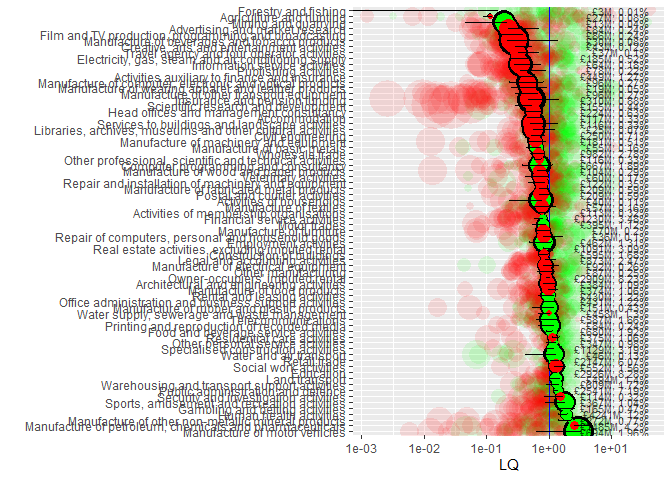
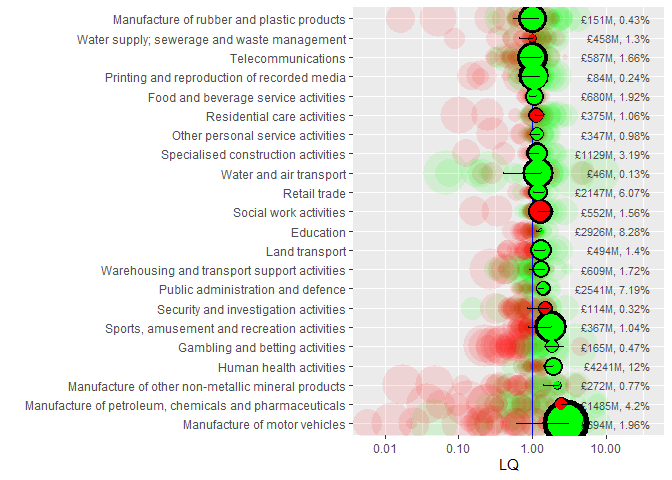
LQ plot

diff --git a/README.md b/README.md
@@ -302,8 +302,9 @@ how LQ has changed over the full range of the data from 1998 to 2021.
 The following code does three things:
 
 1.  Filters down to a single year and keeps in *yeartoplot*.
-2.  Joins the LQ slopes to this single year, so we can see what the
-    trends were in the rest of the time range for each place and sector
+2.  Joins the LQ-over-time slopes to this single year, so we can see
+    what the trends were in the rest of the time range for each place
+    and sector
 3.  Finds the minimum and maximum LQ values for the entire data range,
     for each place and year (this is explained more below when looking
     at a plot) and adds this to *yeartoplot*.
@@ -336,14 +337,15 @@ yeartoplot <- yeartoplot %>%
 ```
 
 We then pick a place to take an initial look at - **Liverpool City
-Region**. This will be the main place on the plot, with others to
+Region (LCR)**. This will be the main place on the plot, with others to
 compare to. We also order the sectors by LCR’s LQ, so they’re ordered in
-the plots.
+the plots by LCR.
 
 ``` r
 place = 'Merseyside'
 
 #Get a vector with sectors ordered by the place's LQs, descending order
+#Use this next to factor-order the SIC sectors
 sectorLQorder <- itl2.cp %>% filter(
   ITL_region_name == place,
   year == 2021
@@ -356,20 +358,39 @@ sectorLQorder <- itl2.cp %>% filter(
 yeartoplot$SIC07_description <- factor(yeartoplot$SIC07_description, levels = sectorLQorder, ordered = T)
 ```
 
-This first plot is unwieldy, but let’s look at every sector before
-zooming in. The plot functions do two things:
+``` r
+# Reduce to SY LQ 1+
+lq.selection <- yeartoplot %>% filter(
+  ITL_region_name == place,
+  LQ > 1
+  )
+
+#Keep only sectors that were LQ > 1 from the main plotting df
+yeartoplot <- yeartoplot %>% filter(
+  SIC07_description %in% lq.selection$SIC07_description
+)
+```
+
+A plot for all sectors is a little unwieldy, though interesting to get
+an overiew. You can view it
+[here](README_files/gva_Merseyside_plot.png). (The plot code below will
+produce this full plot if you don’t filter first.)
+
+Instead, let’s look just at LCR sectors where LQ is more than 1 - that
+is, sectors that have relatively higher GVA in LCR compared to the rest
+of the UK. First, find sectors in LCR that are LQ \> 1, then use that to
+get those sectors for all places, so we can compare LCR to those places.
+
+The plot functions do two things:
 
 1.  The first function (*LQ_baseplot*) begins the plot by adding **all
-    places** faintly. We also have the option of not including this by
-    setting alpha to zero, but it still functions as the base plot
-    initialisation, so always use.
+    places** (faintness controlled by the alpha value). We also have the
+    option of not including this by setting alpha to zero, but it still
+    functions as the base plot initialisation, so always use.
 2.  The function *addplacename_to_LQplot* can be used repeatedly to add
     specific places with clearer shapes (choose shape numbers from
     somewhere [like
     here](http://www.sthda.com/english/wiki/ggplot2-point-shapes)).
-
-Other examples below explain this more, but here’s that plot to start
-with:
 
 ``` r
 p <- LQ_baseplot(df = yeartoplot, alpha = 0.1, sector_name = SIC07_description, LQ_column = LQ, change_over_time = slope)
@@ -387,21 +408,4 @@ p <- addplacename_to_LQplot(df = yeartoplot, placename = 'Merseyside',
 p
 ```
 
-The version here is a saved copy with larger dimensions, so it’s (just
-about) readable. Let’s look at a subset in the plot after this one
-before explaining what’s going on here.
-
-![](README_files/gva_Merseyside_plot.png)
-
-``` r
-# Reduce to SY LQ 1+
-lq.selection <- yeartoplot %>% filter(
-  ITL_region_name == place,
-  LQ > 1
-  )
-
-#Keep only sectors that were LQ > 1 frfom the main plotting df
-yeartoplot <- yeartoplot %>% filter(
-  SIC07_description %in% lq.selection$SIC07_description
-)
-```
+![](README_files/gva_Merseyside_plot_LQmorethan1.png)
